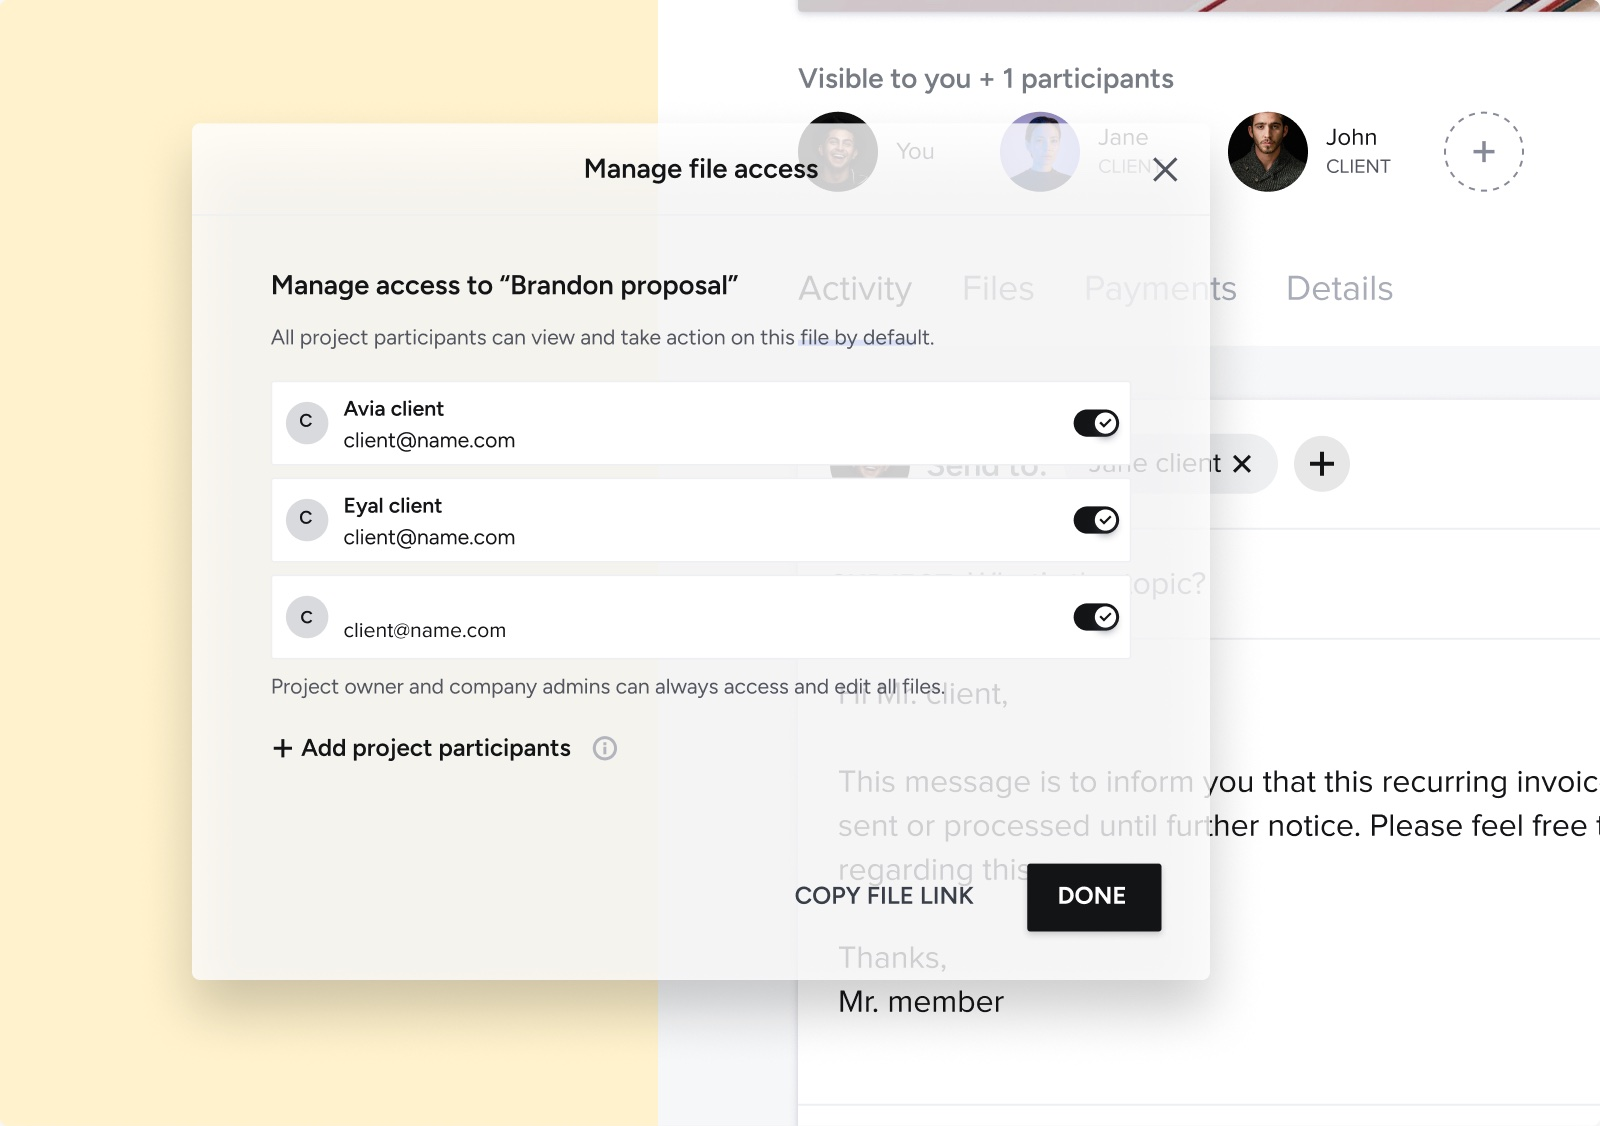
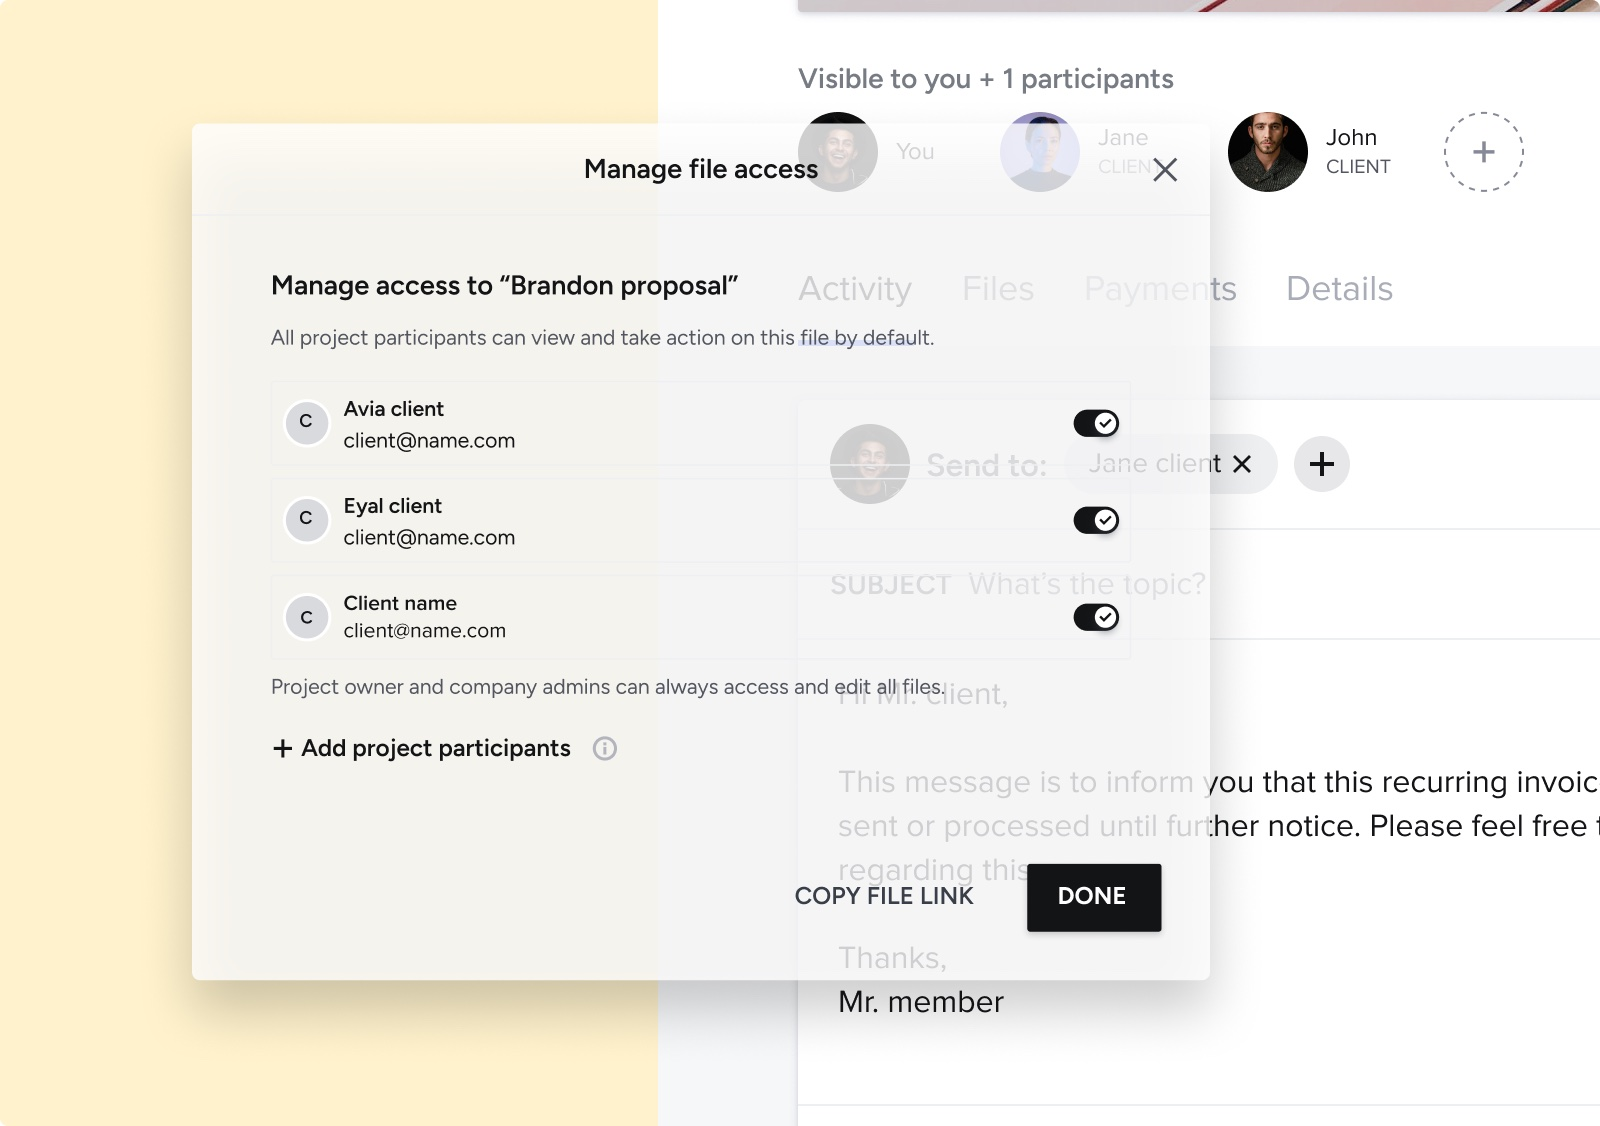
Update the Selective Sharing homepage card
Use the new translucent card from Figma and add a version query so
browsers fetch it instead of a cached copy.

diff --git a/index.html b/index.html
@@ -145,7 +145,7 @@
       <h2><a href="selective-communication/" class="wt">Selective sharing</a></h2>
       <p class="wmeta">HoneyBook · End-to-end product design · 2024</p>
       <p class="wout">Among members with 2+ clients, 37% of messages and 36% of shared files now go out selectively.</p>
-      <a href="selective-communication/" class="wlink"><picture><source srcset="assets/home/share-card.webp" type="image/webp"><img class="wimg" src="assets/home/share-card.jpg" width="1600" height="1126" loading="lazy" decoding="async" alt="HoneyBook Manage file access dialog over a project workspace, with a toggle per client controlling who can open the file"></picture></a>
+      <a href="selective-communication/" class="wlink"><picture><source srcset="assets/home/share-card.webp?v=20261109" type="image/webp"><img class="wimg" src="assets/home/share-card.jpg?v=20261109" width="1600" height="1126" loading="lazy" decoding="async" alt="HoneyBook Manage file access dialog over a project workspace, with a toggle per client controlling who can open the file"></picture></a>
     </div>
     <div class="wrow">
       <h2><a href="custom-fields/" class="wt">Custom fields</a></h2>
